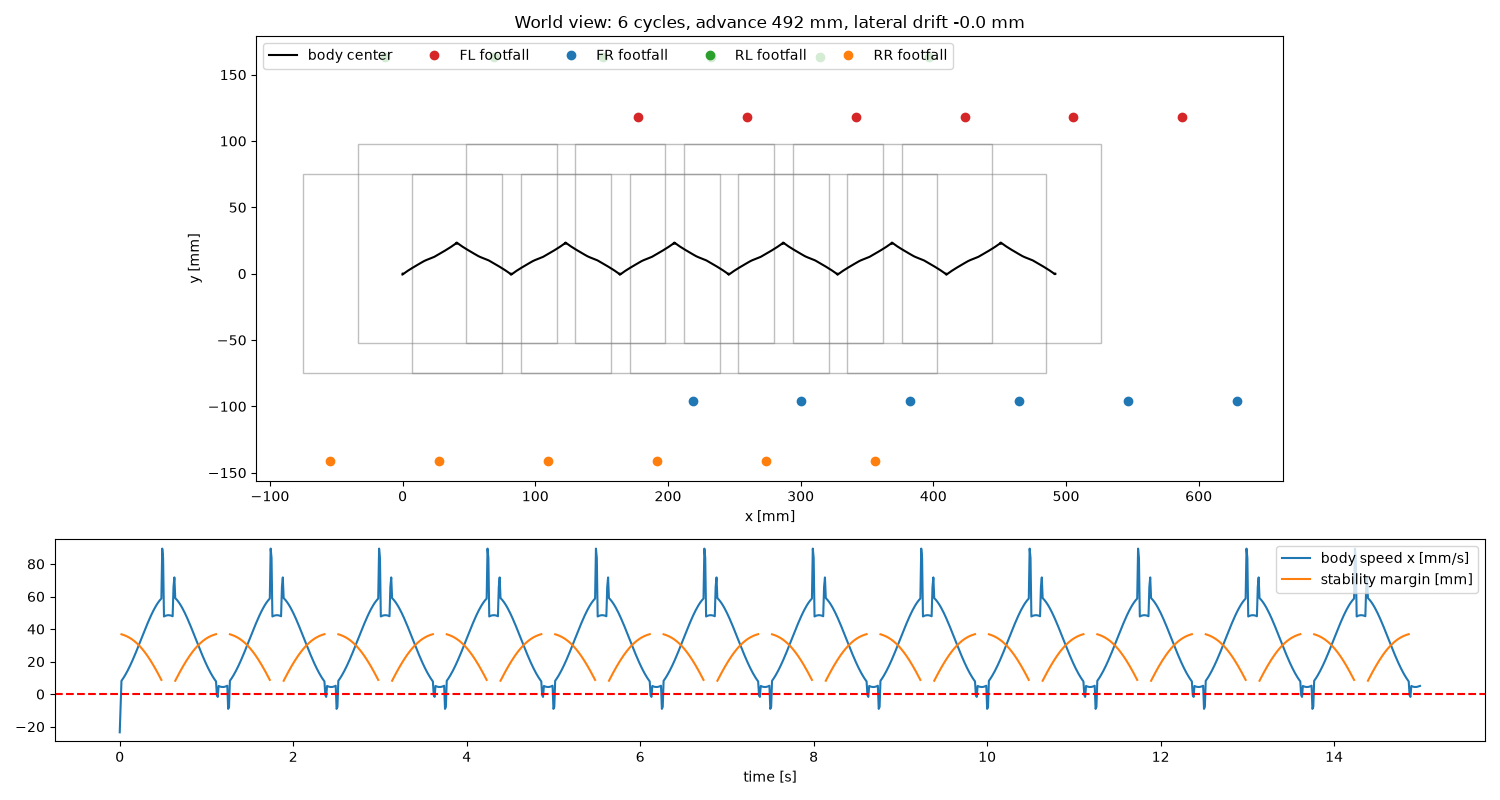
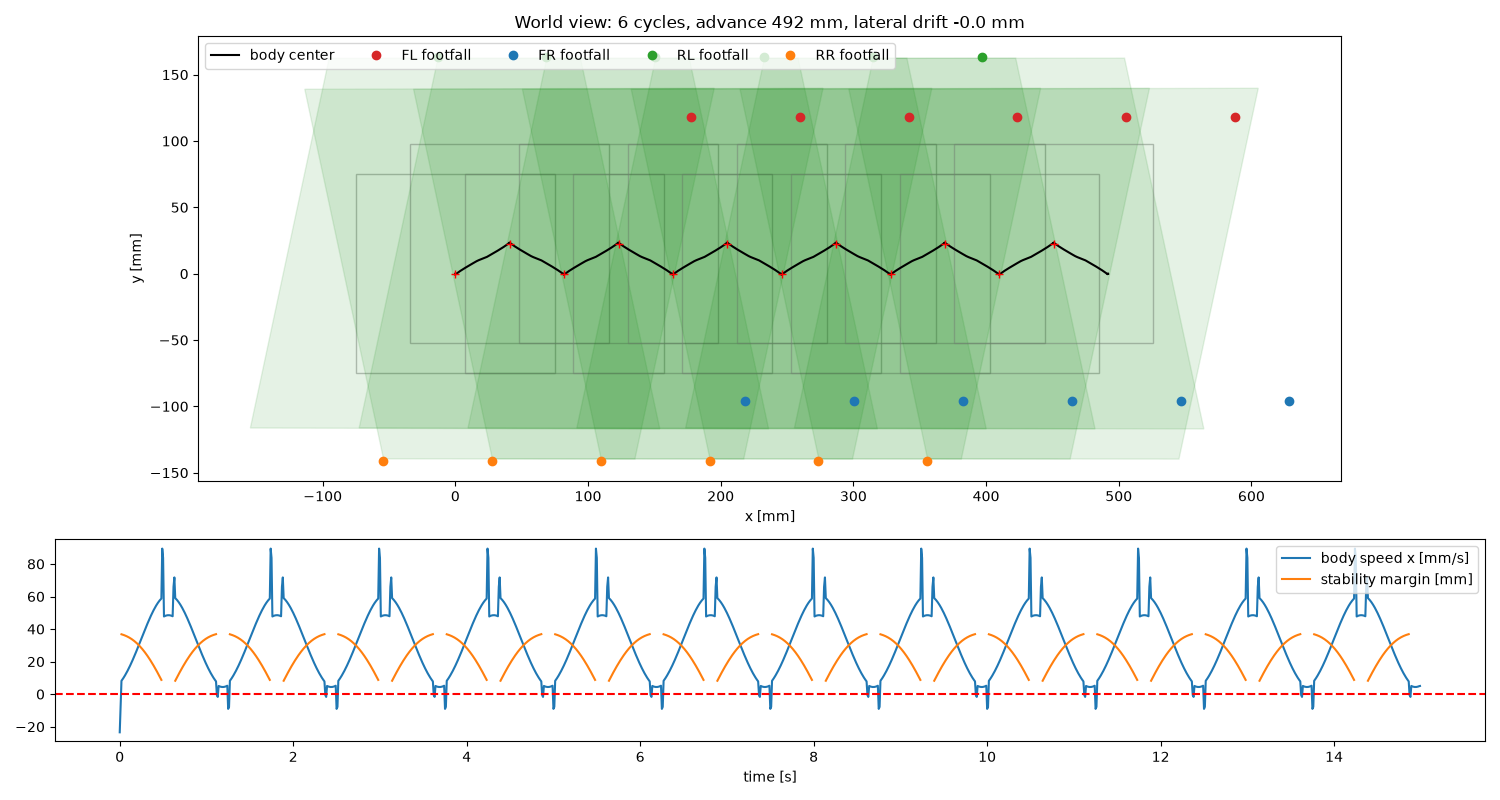
Display support polygon and COG in world simulation

diff --git a/sim/world_sim.py b/sim/world_sim.py
@@ -59,6 +59,12 @@ for i in range(4):
 for n in range(0, N, int(CYCLE_SEC / DT / 2)):
     c = pos[n]
     a.add_patch(plt.Rectangle(c - B, 2 * B, 2 * B, fill=False, ec="gray", alpha=.5))
+    pts = feet_w[n, stance[n]]
+    if len(pts) >= 3:
+        cen = pts.mean(axis=0)
+        ang = np.arctan2(pts[:, 1] - cen[1], pts[:, 0] - cen[0])
+        a.add_patch(plt.Polygon(pts[np.argsort(ang)], closed=True, color="green", alpha=0.10))
+    a.plot(c[0], c[1], "r+", ms=6)
 a.set_aspect("equal"); a.legend(ncol=5, loc="upper left")
 a.set_title(f"World view: {CYCLES} cycles, advance {pos[-1,0]:.0f} mm, lateral drift {pos[-1,1]:.1f} mm")
 a.set_xlabel("x [mm]"); a.set_ylabel("y [mm]")
@@ -69,18 +75,33 @@ a.axhline(0, color="r", ls="--"); a.legend(); a.set_xlabel("time [s]")
 plt.tight_layout(); plt.savefig(os.path.join(out, "world.png"), dpi=100)
 
 # アニメーション(俯瞰・全体固定ビュー)
-fig, a = plt.subplots(figsize=(11, 4))
+fig, a = plt.subplots(figsize=(12, 4.5))
 a.set_xlim(-150, pos[:, 0].max() + 160); a.set_ylim(-170, 170); a.set_aspect("equal")
 a.plot(pos[:, 0], pos[:, 1], "k:", lw=.8)
-rect = a.add_patch(plt.Rectangle((0, 0), 2 * B, 2 * B, fill=False))
+poly = a.add_patch(plt.Polygon([[0, 0], [0, 0], [0, 0]], closed=True, color="green", alpha=0.25, label="Support polygon"))
+rect = a.add_patch(plt.Rectangle((0, 0), 2 * B, 2 * B, fill=False, ec="black", lw=1.2, label="Body"))
+com_dot = a.plot([], [], "r+", ms=11, mew=2.2, label="COG (body center)")[0]
 legl = [a.plot([], [], "-", color=cols[i], lw=2)[0] for i in range(4)]
 dots = [a.plot([], [], "o", color=cols[i], ms=8)[0] for i in range(4)]
 prints = [a.plot([], [], ".", color=cols[i], ms=4)[0] for i in range(4)]
 ttl = a.set_title("")
+a.legend(loc="upper left", ncol=3, fontsize=9)
 STEP = 4
 def upd(f):
     n = f * STEP
     rect.set_xy(pos[n] - B)
+    com_dot.set_data([pos[n, 0]], [pos[n, 1]])
+
+    # 支持多角形の頂点ソートと更新
+    pts = feet_w[n, stance[n]]
+    if len(pts) >= 3:
+        cen = pts.mean(axis=0)
+        ang = np.arctan2(pts[:, 1] - cen[1], pts[:, 0] - cen[0])
+        poly.set_xy(pts[np.argsort(ang)])
+        poly.set_visible(True)
+    else:
+        poly.set_visible(False)
+
     for i in range(4):
         c = BASE[i] + pos[n]
         legl[i].set_data([c[0], feet_w[n, i, 0]], [c[1], feet_w[n, i, 1]])
@@ -88,7 +109,9 @@ def upd(f):
         dots[i].set_markerfacecolor(cols[i] if stance[n, i] else "none")
         s = np.array([q for q in steps[i] if q[0] <= feet_w[n, i, 0] + 1e-9]) if steps[i] else np.empty((0, 2))
         if len(s): prints[i].set_data(s[:, 0], s[:, 1])
-    ttl.set_text(f"t={t[n]:.1f}s  x={pos[n,0]:.0f}mm  (hollow=swing)")
+
+    margin_str = f"margin={mg[n]:.1f}mm" if not np.isnan(mg[n]) else "4-leg stance"
+    ttl.set_text(f"t={t[n]:.1f}s  x={pos[n,0]:.0f}mm  {margin_str}  (green=support polygon, red+=COG)")
     return []
 FuncAnimation(fig, upd, frames=N // STEP, blit=False).save(
     os.path.join(out, "world.gif"), writer=PillowWriter(fps=25))
